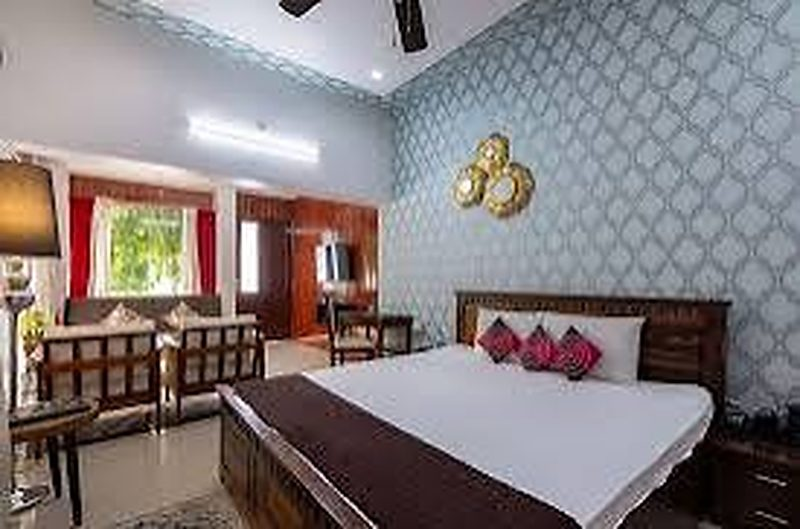
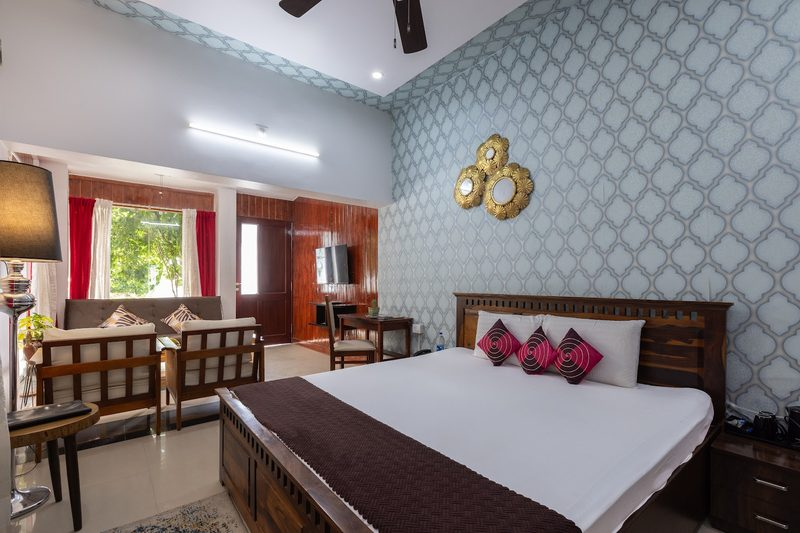
fix: replace low-res pool villa and valley bedroom images with full HD original DSLR shots

diff --git a/src/data/site.js b/src/data/site.js
@@ -136,10 +136,9 @@ export const ROOMS = [
     features: ['Private indoor pool', '2 Bedrooms', 'Suite lounge', 'Pool deck & loungers'],
     photos: [
       { img: 'pool-villa-pool', alt: 'Private indoor pool with blue lighting and a stone feature wall' },
-      { img: 'pool-villa-lounge', alt: 'Private Pool Villa suite lounge with sofa bed, lamp and study desk' },
       { img: 'pool-villa-suite', alt: 'Pool Villa suite bedroom and lounge overlooking the indoor pool stone wall' },
       { img: 'pool-villa-bedroom', alt: 'Pool Villa bedroom with king bed and patterned teal feature wall' },
-      { img: 'pool-villa-bedroom2', alt: 'Pool Villa bedroom with king bed, wardrobe and vanity desk' },
+      { img: 'pool-villa-lounge', alt: 'Private Pool Villa suite lounge with sofa bed, lamp and study desk' },
       { img: 'pool-villa-seating', alt: 'Lounge seating area beside the private indoor pool glass wall' },
       { img: 'pool-loungers', alt: 'Indoor pool lined with palms and loungers', shared: true },
       { img: 'indoor-pool', alt: 'Private pool with wooden loungers', shared: true }
